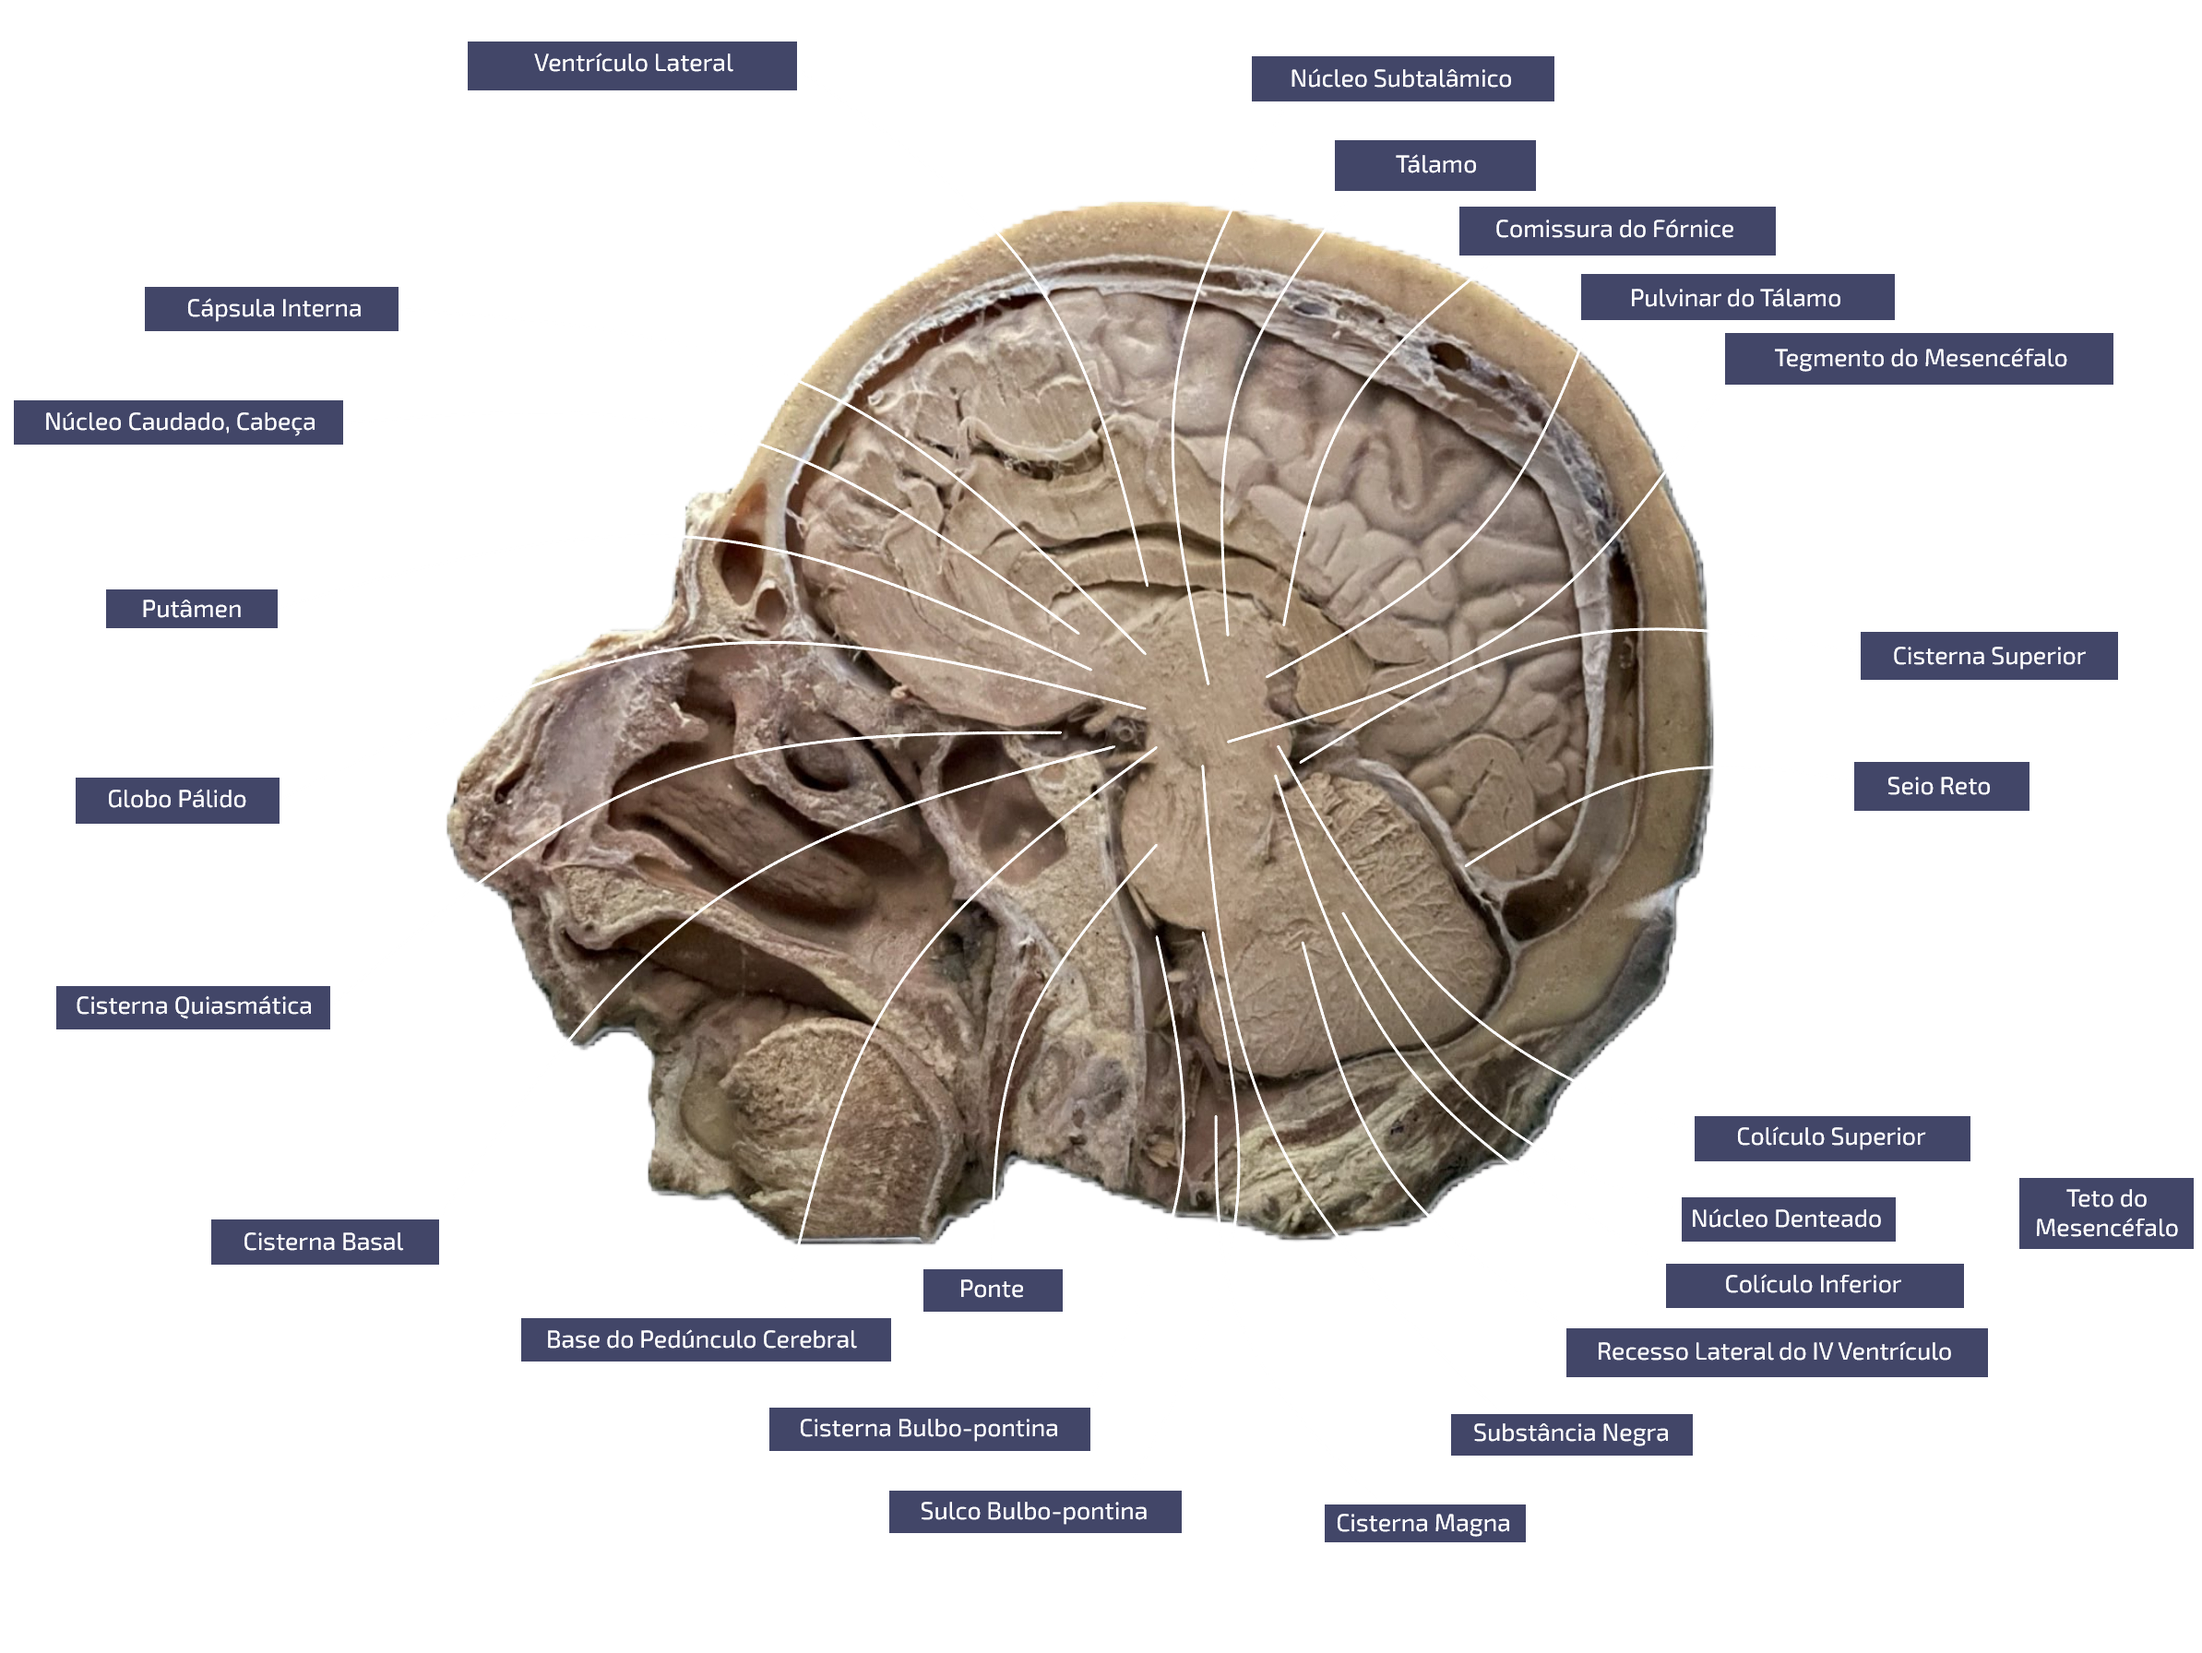
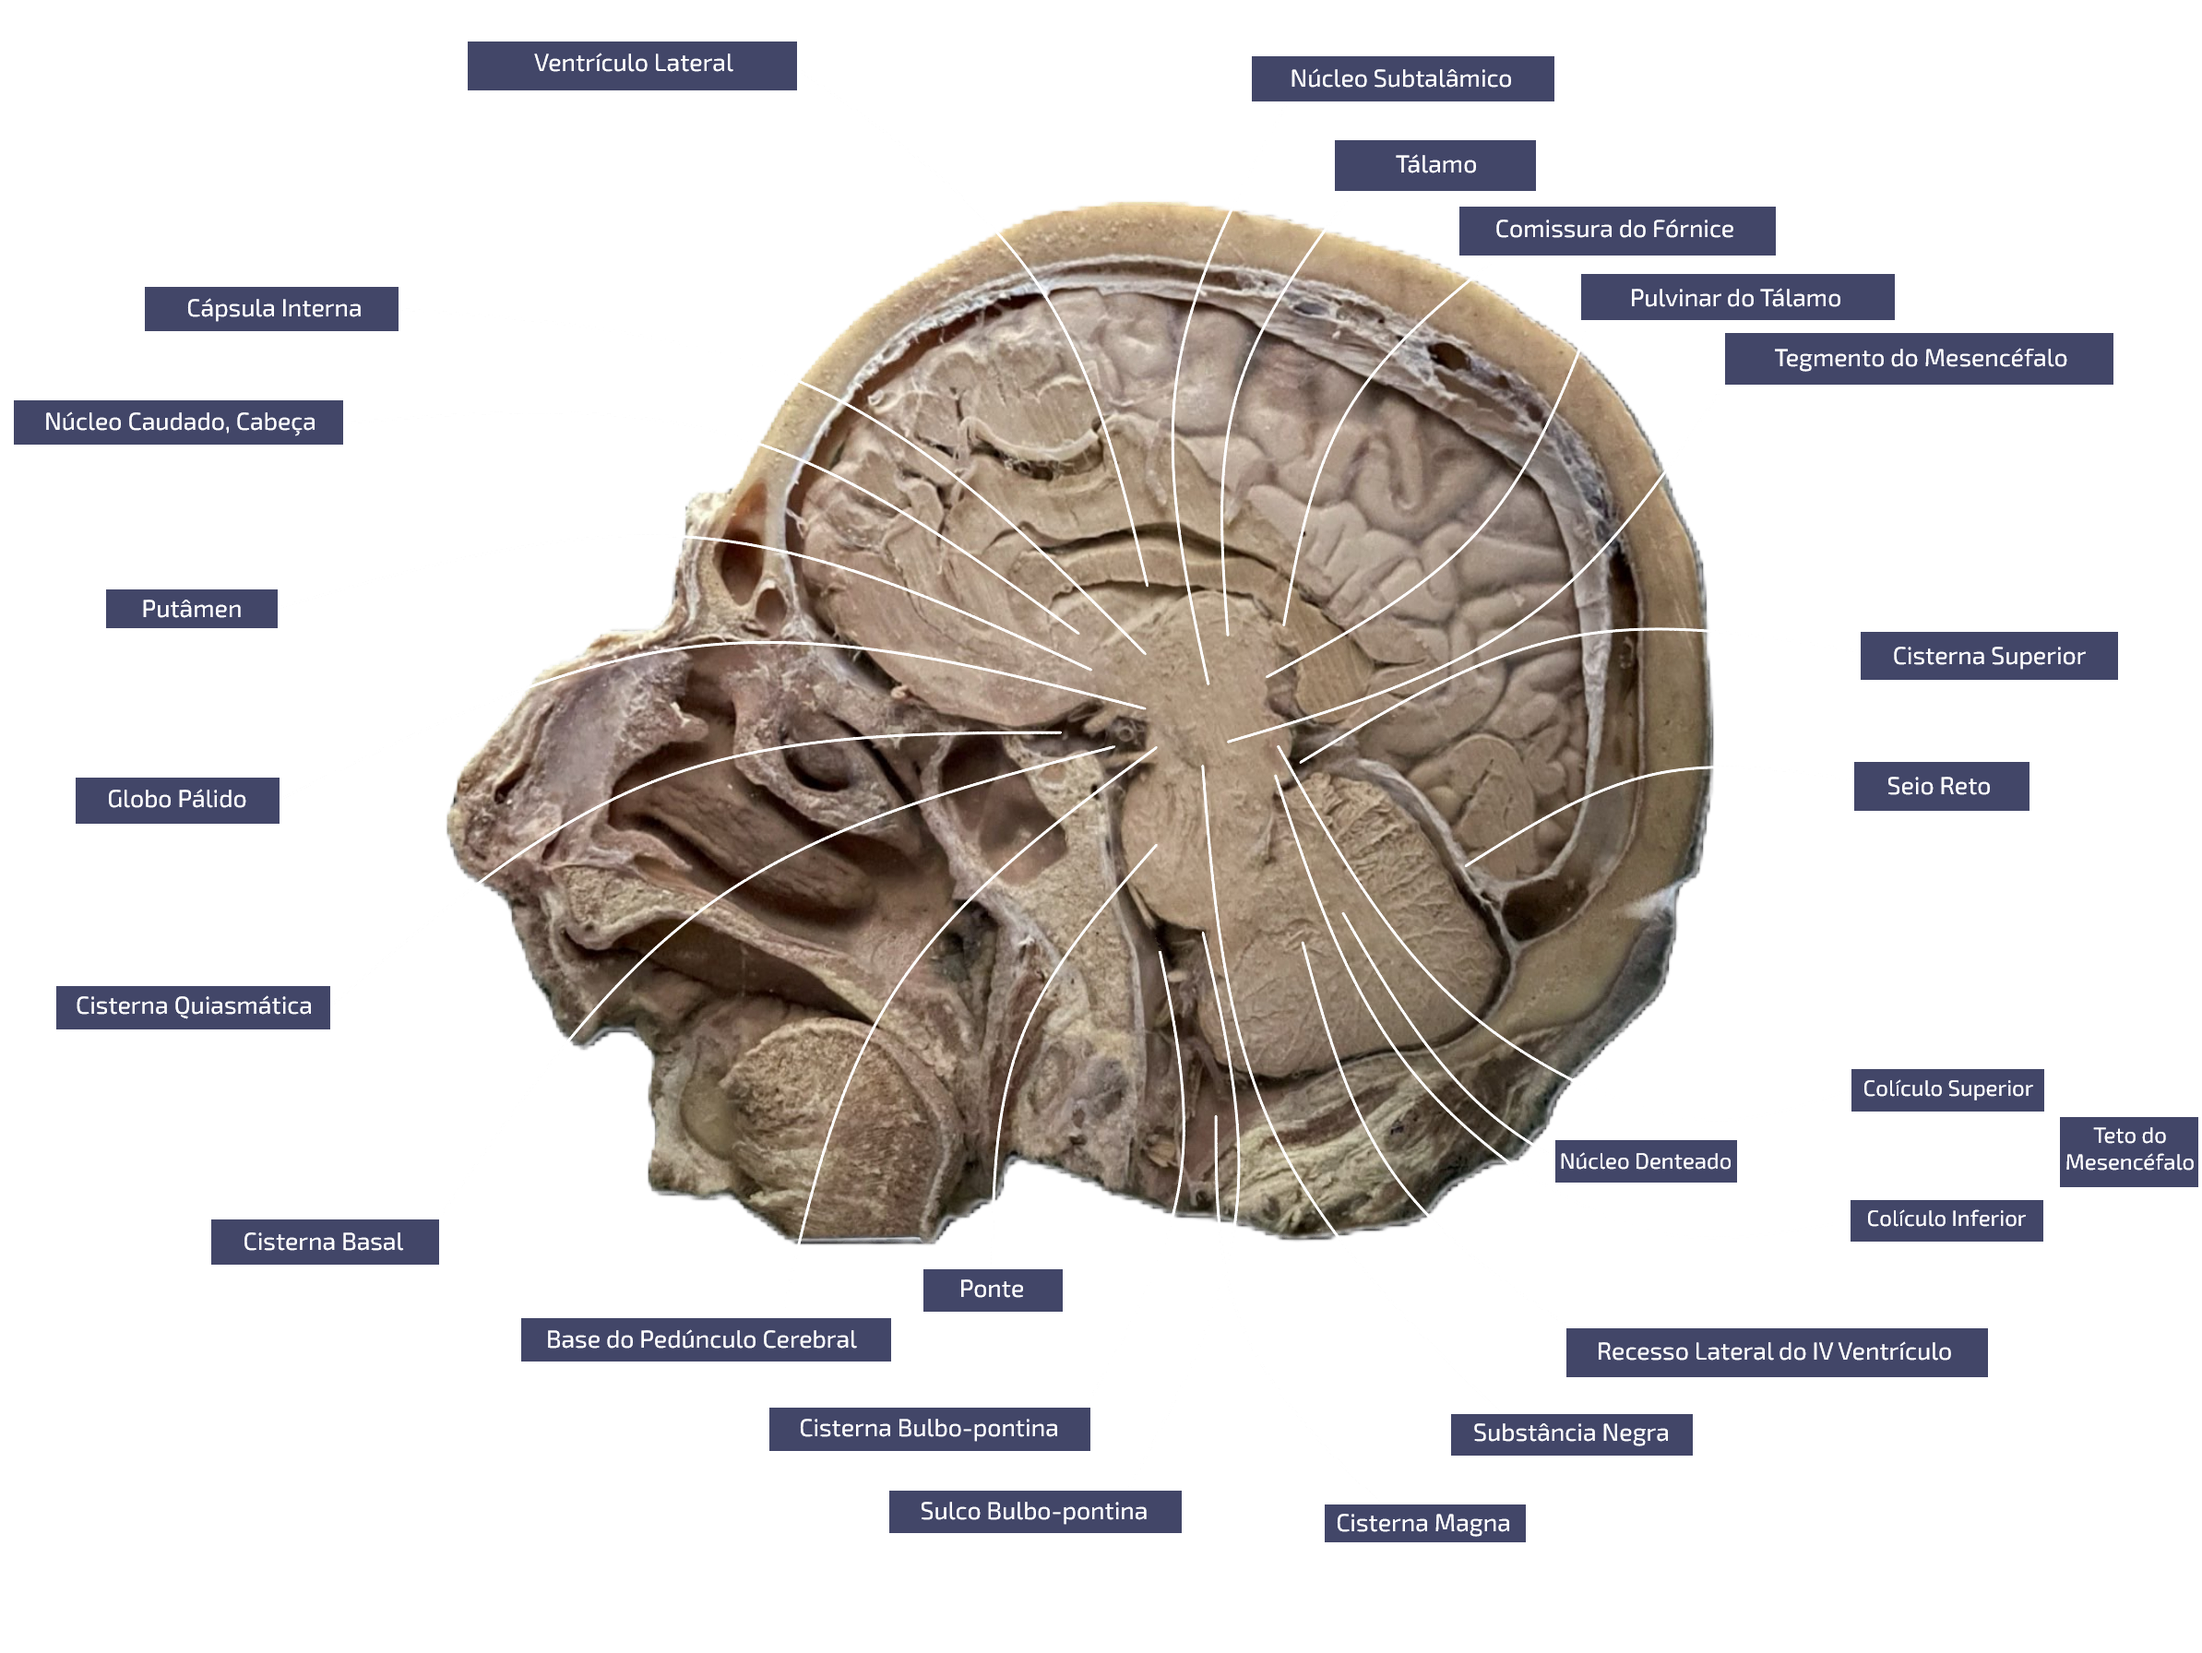
mudanças solicitadas - imagens sulcos e sagistais

Changed region(s): [[0.682, 0.625, 1.0, 0.8125]]

diff --git a/src/data/Anatomy/SeG.js b/src/data/Anatomy/SeG.js
@@ -512,7 +512,7 @@ const SeG = [
                 title: "Sulco Pós-central",
                 fillColor: "rgba(167, 62, 20, 0)",
                 strokeColor: "rgba(115, 201, 34, 0)",
-                description: "  Localizado entre o Giro Central e o Giro Pós-central e percorre paralelamente ao Sulco Pré-central. Pode apresentar-se dividido em dois segmentos, sendo que eles podem estar mais ou menos distantes um do outro. ",
+                description: "  Localizado posteriormente ao giro pós-central e percorre paralelamente ao sulco pré-central. Pode apresentar-se dividido em dois segmentos, sendo que eles podem estar mais ou menos distantes um do outro.",
                 reference: "RHOTON, A. L. THE CEREBRUM. Neurosurgery, v. 61, n. suppl_1, p. SHC-37-SHC-119, 1 jul. 2007. | Chauhan P, Rathawa A, Jethwa K, Mehra S. The Anatomy of the Cerebral Cortex. In: Pluta R, editor. Cerebral Ischemia [Internet]. Brisbane (AU): Exon Publications; 2021 Nov 6. Chapter 1. PMID: 34905314."
             },  
             {
@@ -530,7 +530,7 @@ const SeG = [
                 title: "Sulco Pré-central",
                 fillColor: "rgba(167, 62, 20, 0)",
                 strokeColor: "rgba(115, 201, 34, 0)",
-                description: "  Localizado entre o Giro Central e o Giro Pré-central e percorre paralelamente ao Sulco Pós-central. Pode apresentar-se bifurcado.",
+                description: "  Localizado anteriormente ao giro pré-central e percorre paralelamente ao sulco pós-central. Pode apresentar-se bifurcado.",
                 reference: "Machado A; Haertel LM. Neuroanatomia funcional. 3. ed. São Paulo: Atheneu, 2014, 340 p. ISBN 9788538804574 | RHOTON, A. L. THE CEREBRUM. Neurosurgery, v. 61, n. suppl_1, p. SHC-37-SHC-119, 1 jul. 2007. | Chauhan P, Rathawa A, Jethwa K, Mehra S. The Anatomy of the Cerebral Cortex. In: Pluta R, editor. Cerebral Ischemia [Internet]. Brisbane (AU): Exon Publications; 2021 Nov 6. Chapter 1. PMID: 34905314. | El-Baba RM, Schury MP. Neuroanatomy, Frontal Cortex. 2023 May 29. In: StatPearls [Internet]. Treasure Island (FL): StatPearls Publishing; 2024 Jan–. PMID: 32119370."
             },  
             {

diff --git a/src/data/Anatomy/CS.js b/src/data/Anatomy/CS.js
@@ -378,7 +378,7 @@ const CS = [
             },
             {
                 shape: "rect",
-                coords: [1785,1290,2080,1356],
+                coords: [1674,1230,1890,1291],
                 title: "Núcleo denteado",
                 fillColor: "rgba(0, 0, 0, 0)",
                 strokeColor: "rgba(0, 0, 0, 0)",
@@ -387,7 +387,7 @@ const CS = [
             },
             {
                 shape: "rect",
-                coords: [1826,1200,2143,1265],
+                coords: [2008,1149,2224,1210],
                 title: "Colículo superior",
                 fillColor: "rgba(0, 0, 0, 0)",
                 strokeColor: "rgba(0, 0, 0, 0)",
@@ -396,7 +396,7 @@ const CS = [
             },
             {
                 shape: "rect",
-                coords: [1796,1361,2143,1425],
+                coords: [2004,1292,2220,1353],
                 title: "Colículo inferior",
                 fillColor: "rgba(0, 0, 0, 0)",
                 strokeColor: "rgba(0, 0, 0, 0)",
